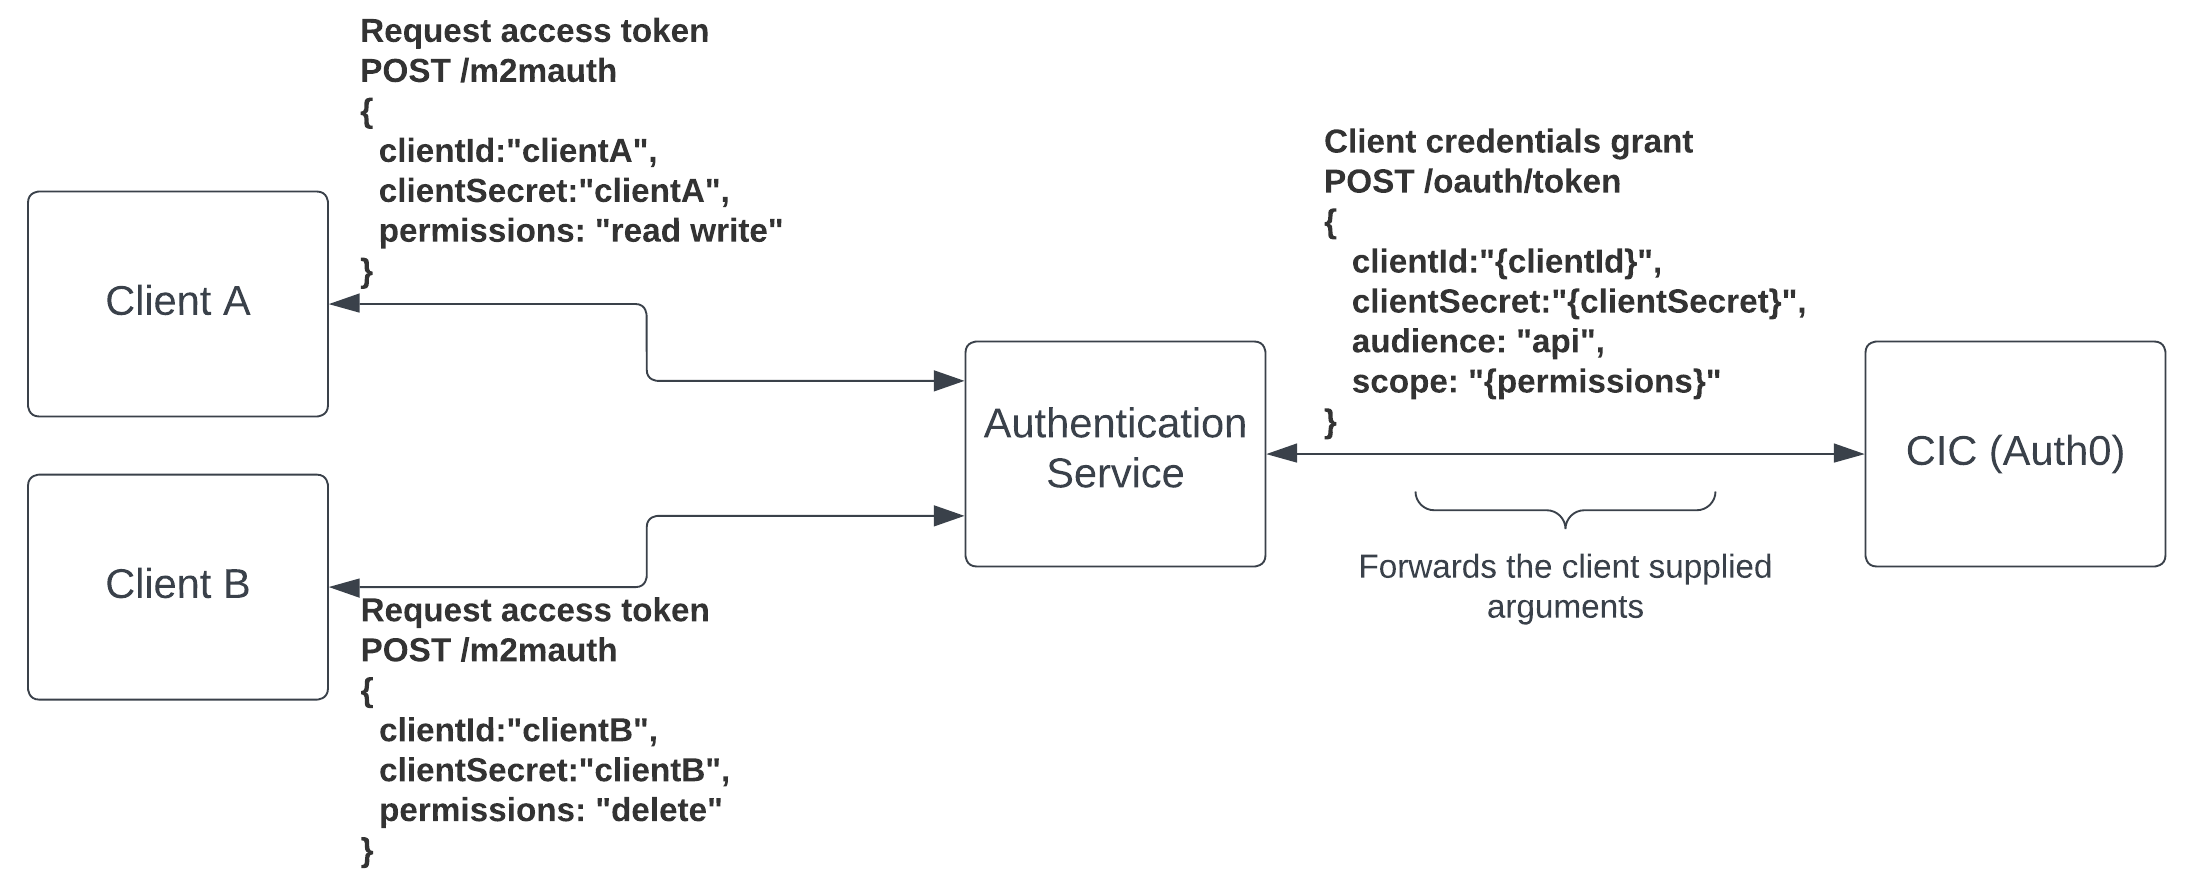
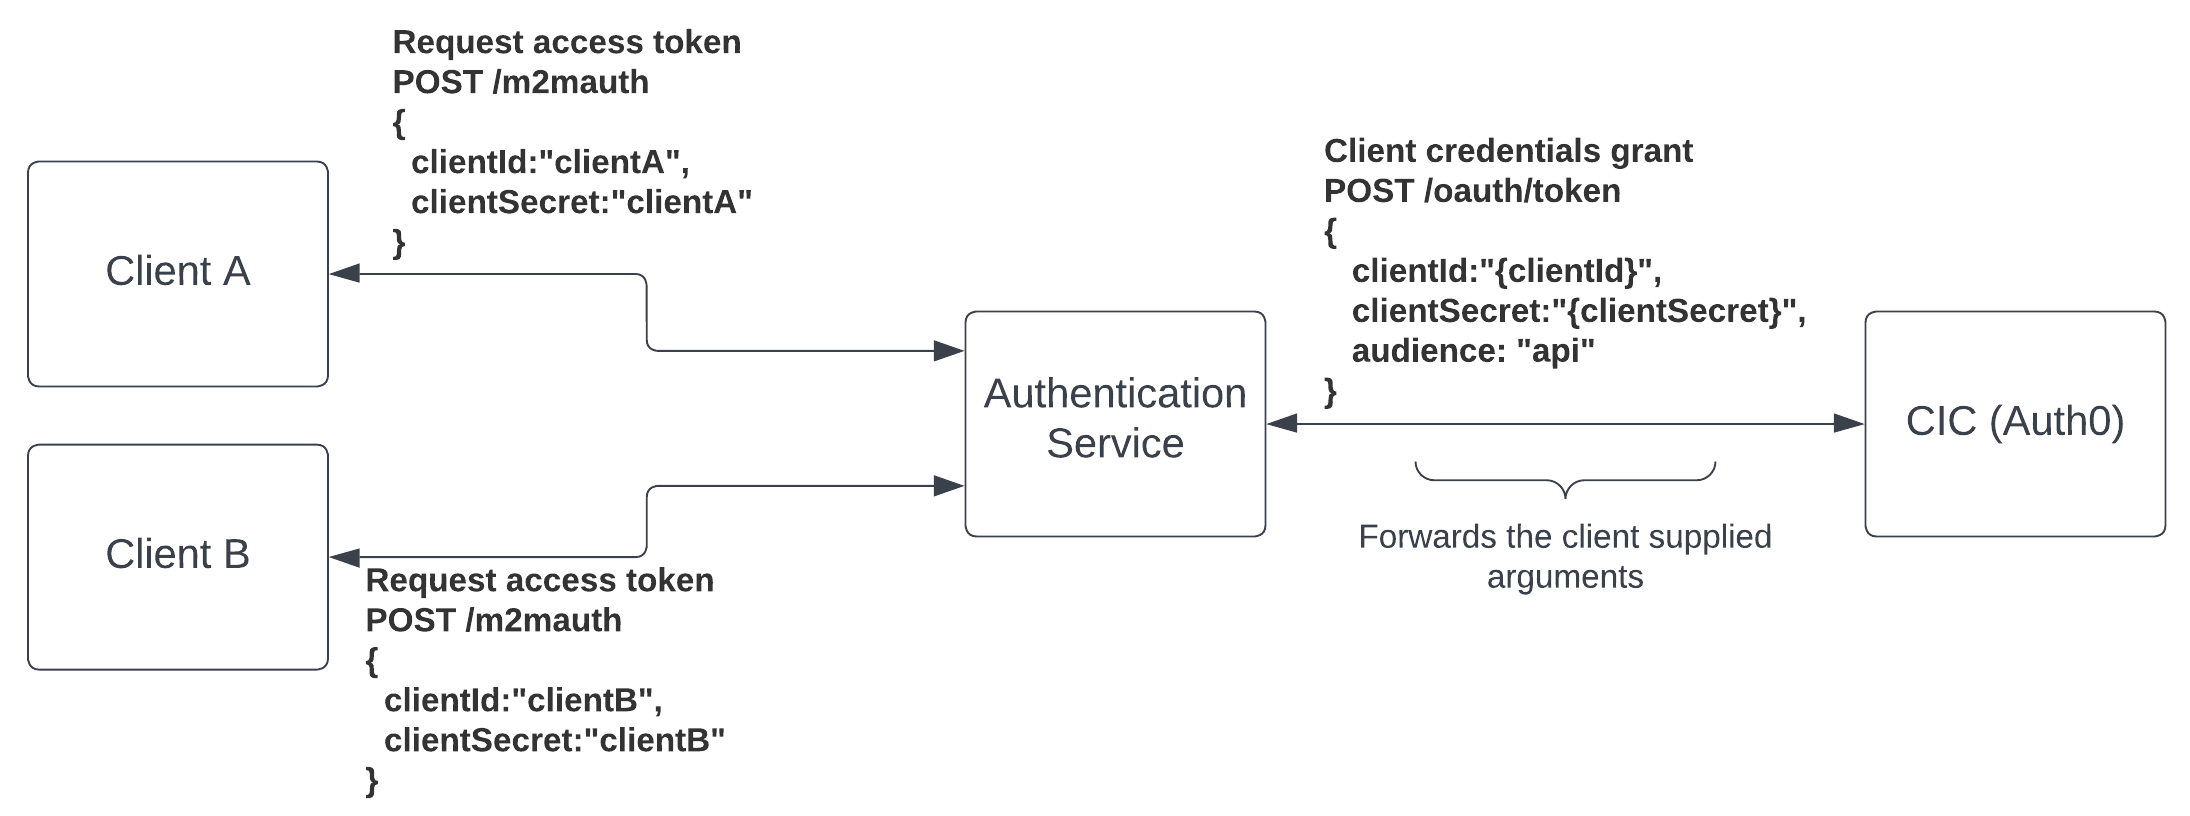
removed permissions param

diff --git a/MultiClientM2M/AuthenticationService/routes/index.js b/MultiClientM2M/AuthenticationService/routes/index.js
@@ -28,10 +28,10 @@ const AuthenticationClient = require("auth0").AuthenticationClient;
  */
 router.post("/m2mauth", async (req, res, next) => {
   try{    
-    const {clientId, clientSecret, permissions} = req.body;
+    const {clientId, clientSecret} = req.body;
 
     const auth = new AuthenticationClient({domain: process.env.ISSUER_BASE_URL.replace("https://", ""), clientId, clientSecret});
-    const response = await auth.clientCredentialsGrant({audience:process.env.AUDIENCE, scope:permissions})
+    const response = await auth.clientCredentialsGrant({audience:process.env.AUDIENCE})
 
     res.send(response)
   } catch(e){

diff --git a/MultiClientM2M/ClientA/README.md b/MultiClientM2M/ClientA/README.md
@@ -14,7 +14,6 @@ npm install
 - `AUTH_API_URL` - absolute URL to the Authentication Service (ie: `http://localhost:3001`)
 - `M2M_CLIENT_ID` - the ClientA application's client id
 - `M2M_CLIENT_SECRET` - the ClientA application's client secret
-- `PERMISSIONS` - The permissions assigned to ClientA when configuring the API
 
 ```bash
 mv .env.example .env

diff --git a/MultiClientM2M/ClientB/README.md b/MultiClientM2M/ClientB/README.md
@@ -14,7 +14,6 @@ npm install
 - `AUTH_API_URL` - absolute URL to the Authentication Service (ie: `http://localhost:3001`)
 - `M2M_CLIENT_ID` - the ClientB application's client id
 - `M2M_CLIENT_SECRET` - the ClientB application's client secret
-- `PERMISSIONS` - The permissions assigned to ClientB when configuring the API
 
 ```bash
 mv .env.example .env

diff --git a/MultiClientM2M/README.md b/MultiClientM2M/README.md
@@ -23,8 +23,7 @@ The M2M auth route initiates the client credentials flow using the request body.
 ```json
 {
   "clientId": "uNtntSBJnrbys", 
-  "clientSecret": "SAeDT6Ose97BbEx2_JSvqz", 
-  "permissions":"read:data write:data"
+  "clientSecret": "SAeDT6Ose97BbEx2_JSvqz"
 }
 ```
 ## Client Credentials Action 
